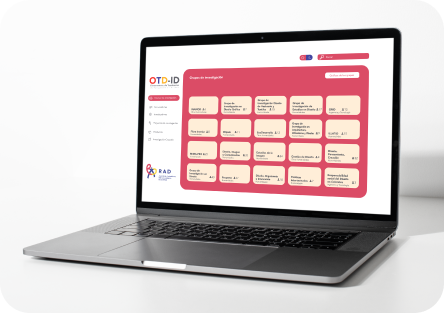
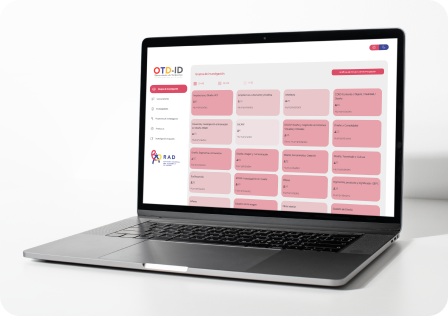
Colores arreglados

diff --git a/CSS/Navegación.css b/CSS/Navegación.css
@@ -528,9 +528,9 @@ input:checked+.slide:before {
 
 }
 
-.dark-mode .filters select {
-    background-color: #6066AA;
-    border-color: transparent;
+.dark-mode .filter{
+    background-color: #3A3A42;
+    border-color: #6066AA;
     color: white;
     transition: background-color .5s;
 
@@ -565,6 +565,8 @@ input:checked+.slide:before {
     transition: background-color .5s;
 
 }
+
+
 
 .loaderGeneral {
     display: flex;

diff --git a/CSS/Principal.css b/CSS/Principal.css
@@ -330,6 +330,10 @@ body {
 
 }
 
+.plataformName:hover {
+  background-color: #e7728c;
+}
+
 
 .namePlata {
   font-weight: lighter;
@@ -367,6 +371,10 @@ body {
   background-color: #F9A61A;
   width: 300px;
 
+}
+
+.plataformName1:hover {
+  background-color: #a26a0a;
 }
 
 
@@ -739,9 +747,7 @@ body {
   width: 90px;
 }
 
-.plataformName:hover {
-  background-color: #ce8200;
-}
+
 
 @media screen and (max-width: 900px) {
 
